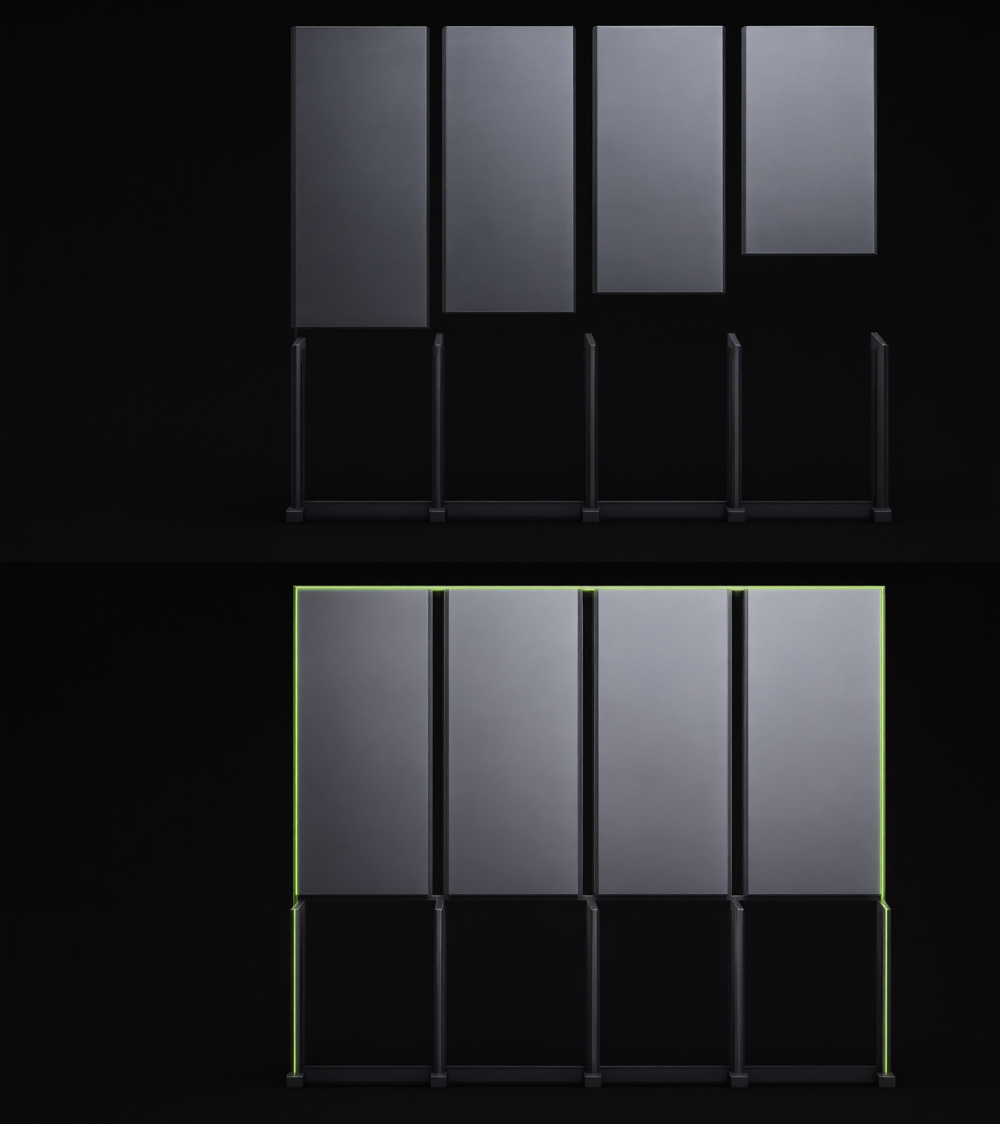
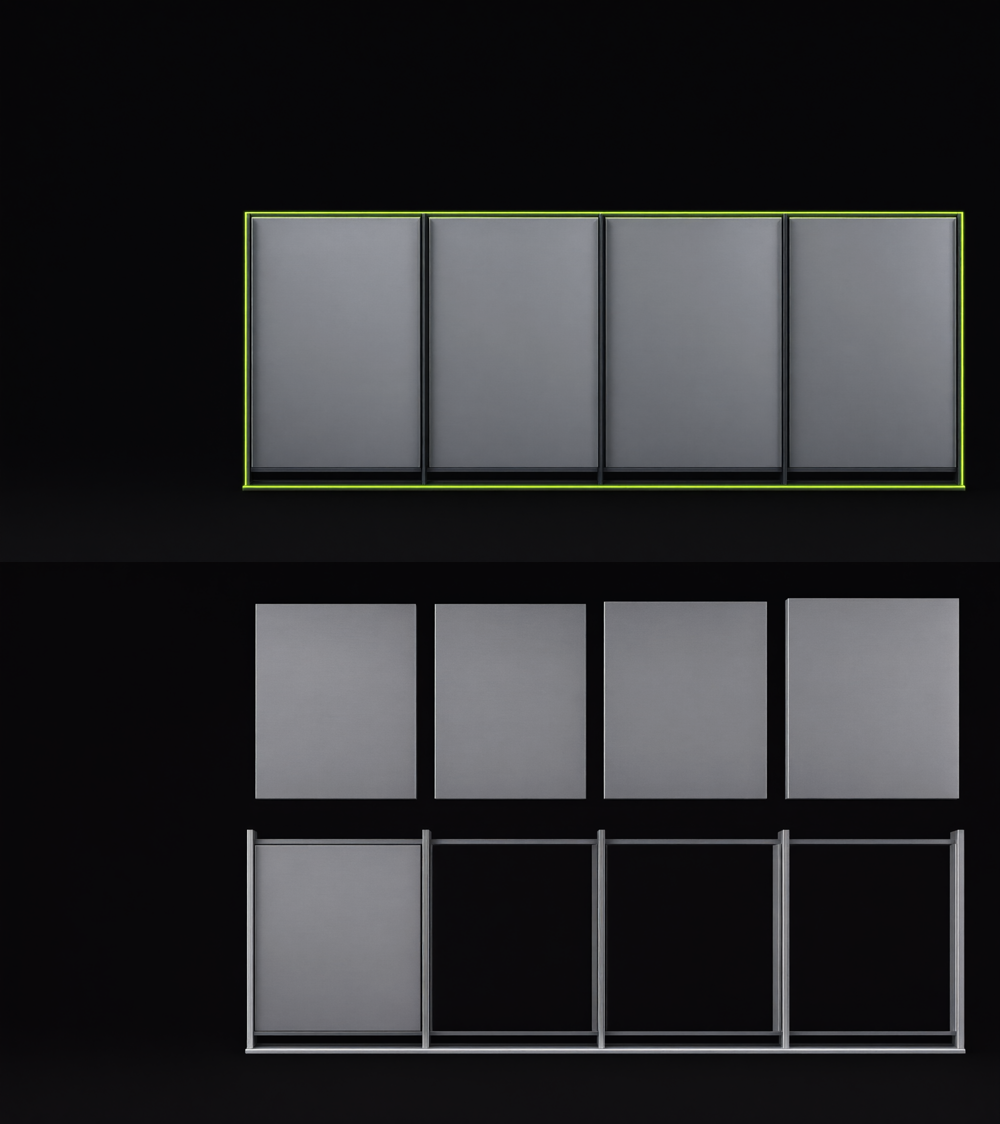
Tre layoutfeil eieren saa med en gang, og som ingen maaling min hadde fanget
OVERSKRIFTEN STO IKKE I LINJE MED NOE. .mega-blokk sentrerte seg i VINDUET og brot dermed ut
av innholdsspalten: maalt venstre kant paa 24 px mens ingressen under sto paa 192. 168 px i
forskjell. Blokken foelger naa spalten; skriften maaler seg mot beholderen (cqi), saa den
holder seg stor uansett – 1056 px beholder gir fortsatt 116 px skrift, og ingen sidelengs
scroll paa noen bredde.

ETT CASE I ET TRE-SPALTERS RUTENETT ga en smal strimmel alene til venstre med en stor tom
flate ved siden av, og overskriften under klistret seg til kortet. Vi finner ikke paa flere
caser – synligeCaser filtrerer bort alt udokumentert, og det staar.

Men diagrammet rett under handler om NOEYAKTIG samme sak: klinikkens booking gaar Kunde ->
Booking -> Vipps -> Fiken -> SMS. De staar naa side om side. Caset forteller hva, diagrammet
viser hvordan. Under 1024 px stables de, og diagrammet bytter uansett til loddrett liste der.

KLIPPET HADDE EN TOM VENSTRE TREDEL. Den er tom med vilje – klippene komponeres med venstre
tredel fri for motiv og aksent, maalt 20,5:1 kontrast og 0,00 % lime i hver ramme, nettopp
for at typografi skal kunne staa der. Men uten tekst leser den som en feil i utsnittet.
Naa staar «Fem systemer. Én kjede.» der. Fast farge, ikke temavariabel, fordi flaten er moerk
i begge temaer. Under 720 px finnes ingen fri tredel, og teksten faller under klippet.

diff --git a/src/styles/typo.css b/src/styles/typo.css
@@ -109,8 +109,11 @@
      zoom, så teksten vokste ut av sin egen ramme: målt +68 px ved zoom 1,5,
      +205 ved 1,75 og +343 ved 2,0. Kunden så det; fjorten breddetester gjorde ikke.
      cqi er prosent av beholderens egen bredde, så forholdet holder uansett zoom. */
-  width: min(100vw - 2 * var(--space-5), 1600px);
-  margin-inline: calc((100% - min(100vw - 2 * var(--space-5), 1600px)) / 2);
+  /* Blokken SENTRERTE seg i vinduet og brot ut av innholdsspalten: maalt venstre
+     kant paa 24 px mens ingressen under sto paa 192. 168 px i forskjell – ingenting
+     sto i linje, og det var det foerste eieren saa. Den foelger naa spalten.
+     Skriften maaler seg mot beholderen (cqi), saa den holder seg stor uansett:
+     1056 px beholder gir fortsatt 116 px skrift. */
   container-type: inline-size;
 }
 .mega-blokk__merke {

diff --git a/src/styles/site.css b/src/styles/site.css
@@ -599,3 +599,13 @@ html, body { overflow-x: clip; }
   }
   .kk-steps .kk-step-n { animation: none !important; clip-path: none !important; }
 }
+
+/* Caset og flytdiagrammet staar sammen fordi de handler om samme sak: klinikkens
+   booking gaar Kunde -> Booking -> Vipps -> Fiken -> SMS. Ett case i et tre-spalters
+   rutenett ga en smal strimmel alene med en stor tom flate ved siden av.
+   Under 1024 px stables de; diagrammet bytter uansett til loddrett liste der. */
+.case-og-flyt { display: grid; gap: var(--space-6); align-items: start; }
+@media (min-width: 1024px) {
+  .case-og-flyt { grid-template-columns: minmax(320px, 26rem) 1fr; gap: var(--space-7); }
+}
+.case-og-flyt > .case-kort { display: grid; gap: var(--space-5); }
